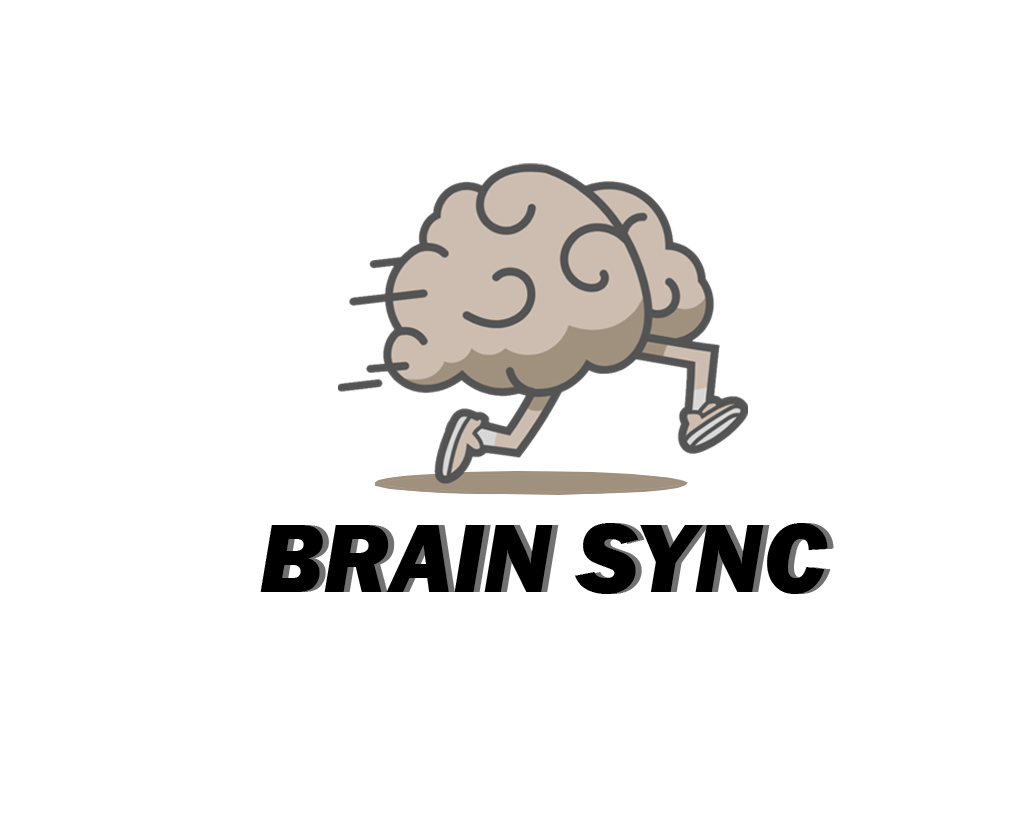
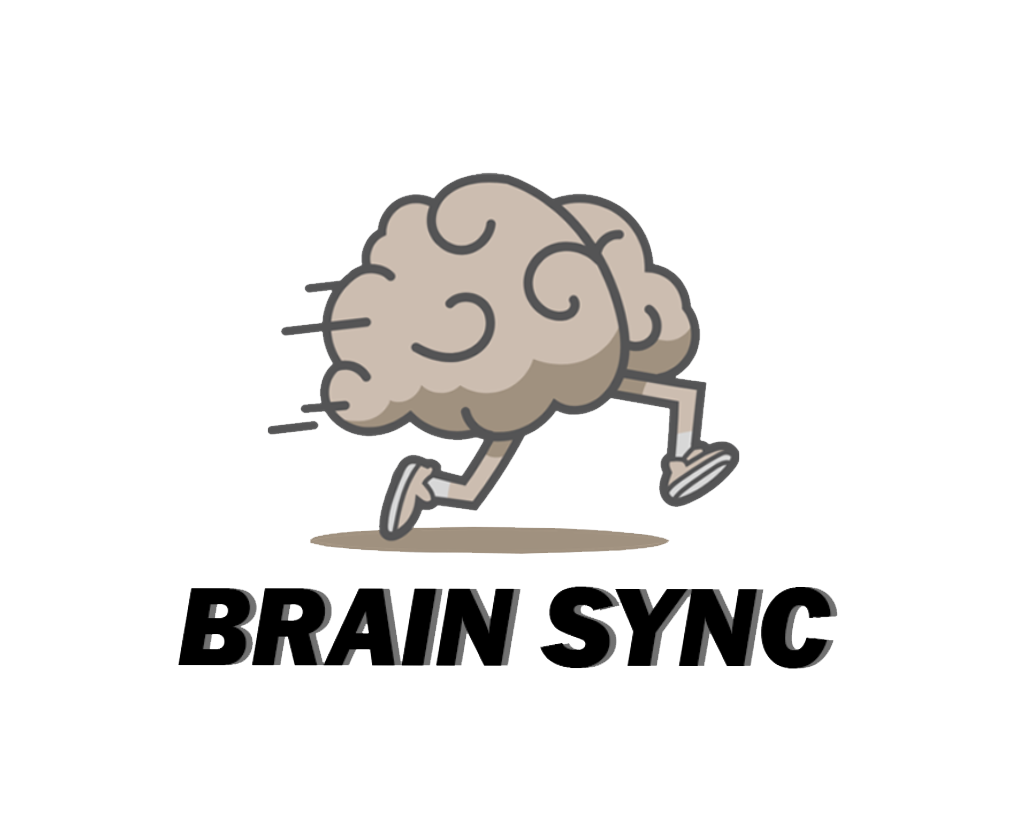
changed the orientation of our brainsync image as well as made it the default image of the cover photo

Changed region(s): [[0.1529, 0.1857, 0.8254, 0.8048]]

diff --git a/lib/pages/Profile/user_profile/profile.dart b/lib/pages/Profile/user_profile/profile.dart
@@ -191,26 +191,28 @@ class _ProfileState extends State<Profile> with RouteAware {
   }
 
   Widget buildCoverImage() {
-  return Container(
-    height: coverHeight,
-    width: double.infinity,
-    color: Colors.grey,
-    child: Image(
-      image: widget.coverImageProvider ?? NetworkImage(profileCoverURL ?? PLACEHOLDER_PROFILE_COVER),
-      fit: BoxFit.cover,
-    ),
-  );
-}
+    return Container(
+      height: coverHeight,
+      width: double.infinity,
+      color: Colors.brown.shade100,
+      child: Image(
+        image: widget.coverImageProvider ??
+            NetworkImage(profileCoverURL ?? PLACEHOLDER_PROFILE_COVER),
+        fit: BoxFit.cover,
+      ),
+    );
+  }
 
   Widget buildProfileImage() {
-  return CircleAvatar(
-    radius: profileHeight / 2,
-    backgroundColor: Colors.grey,
-    backgroundImage: selectedImage != null
-        ? FileImage(selectedImage!)
-        : (widget.profileImageProvider ?? NetworkImage(pfpURL ?? PLACEHOLDER_PFP)),
-  );
-}
+    return CircleAvatar(
+      radius: profileHeight / 2,
+      backgroundColor: Colors.grey,
+      backgroundImage: selectedImage != null
+          ? FileImage(selectedImage!)
+          : (widget.profileImageProvider ??
+              NetworkImage(pfpURL ?? PLACEHOLDER_PFP)),
+    );
+  }
 
   Widget buildSignOutButton() {
     return IconButton(

diff --git a/lib/const.dart b/lib/const.dart
@@ -12,7 +12,7 @@ const String PLACEHOLDER_PFP =
     "https://t3.ftcdn.net/jpg/05/16/27/58/360_F_516275801_f3Fsp17x6HQK0xQgDQEELoTuERO4SsWV.jpg";
 
 const String PLACEHOLDER_PROFILE_COVER =
-    'https://www.comp.nus.edu.sg/~ngne/WEFiles/Image/Gallery/ee8928e7-a052-4ad9-9e41-be48898249fa/c835da5a-2.jpg';
+    'https://firebasestorage.googleapis.com/v0/b/brainsync6325.appspot.com/o/brainsync.png?alt=media&token=6f290b30-f675-4aae-a1c9-75084c49840f';
 
 String? validateFirstName(String? value) {
   if (value == null || value.isEmpty) {
